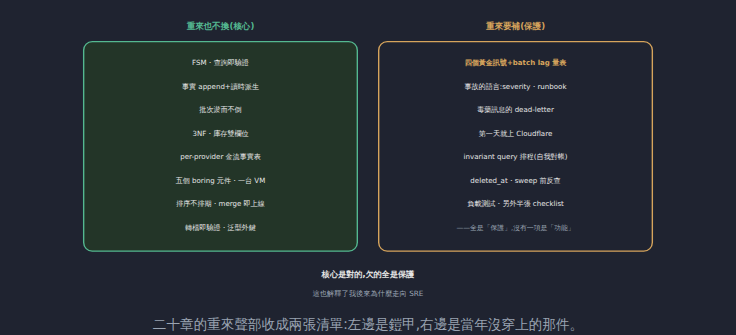
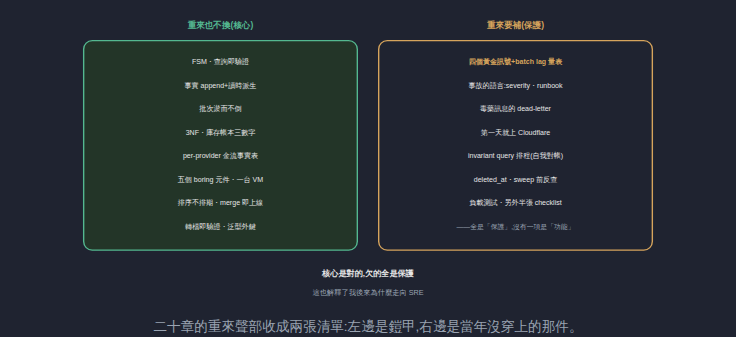
修正 #21 終章:兩張清單圖「庫存雙欄位」改為「庫存帳本三數字」
與 #16 同源的欄位數問題:#5 的定稿說法是帳本三個數字(上限、
購物車數量、訂單數量),終章核心清單圖仍寫「庫存雙欄位」。改為
「庫存帳本三數字」,aria 同步,day30-1.png 重產。

其餘核過:政治一筆帶過與原話、最後一個月四件事(1on1/陪跑/AI
工具清單/multica=需求的語言)、隕石翻案與 #17/#15 閉環、三個
體悟順序、監控之最與原話、Re: 三義、一年半與 interim SRE 時間
線,皆與 roadmap 一致。全站「結束檔期」mislink 已掃淨。

Claude-Session: https://claude.ai/code/session_01CvSnMJ1vCjbkh11Qu9m2ih

diff --git a/src/content/blog/rezero-retro.md b/src/content/blog/rezero-retro.md
@@ -59,13 +59,13 @@ CTO 去問,得到一句回答:「**知道能用跟不能用,就有差別。**」
 都不是。核心的架構,上一節說了,重來也不換。**我最想改的,是監控。**
 
 <figure style="margin:1.5rem 0;text-align:center;">
-  <svg viewBox="0 0 580 288" role="img" aria-label="兩張清單。左邊綠色,重來也不換的核心:FSM 與查詢即驗證、事實 append 加讀時派生、批次淤而不倒、3NF 與庫存雙欄位、per-provider 金流事實表、五個 boring 元件、排序不排期、轉檔即驗證。右邊琥珀色,重來要補的保護:四個黃金訊號加 batch lag、事故的語言 severity 與 runbook、dead-letter、第一天就上 Cloudflare、invariant query 排程、deleted_at 與 sweep 前反查、負載測試與另外半張 checklist。底部結論:核心是對的,欠的全是保護——這也解釋了我後來為什麼走向 SRE。" style="width:100%;max-width:620px;height:auto;margin:0 auto;">
+  <svg viewBox="0 0 580 288" role="img" aria-label="兩張清單。左邊綠色,重來也不換的核心:FSM 與查詢即驗證、事實 append 加讀時派生、批次淤而不倒、3NF 與庫存帳本三數字、per-provider 金流事實表、五個 boring 元件、排序不排期、轉檔即驗證。右邊琥珀色,重來要補的保護:四個黃金訊號加 batch lag、事故的語言 severity 與 runbook、dead-letter、第一天就上 Cloudflare、invariant query 排程、deleted_at 與 sweep 前反查、負載測試與另外半張 checklist。底部結論:核心是對的,欠的全是保護——這也解釋了我後來為什麼走向 SRE。" style="width:100%;max-width:620px;height:auto;margin:0 auto;">
     <text x="152" y="26" fill="#54b890" font-size="8" text-anchor="middle" font-weight="bold">重來也不換(核心)</text>
     <rect x="24" y="38" width="256" height="196" rx="8" fill="#233528" stroke="#54b890" stroke-width="1.3"/>
     <text x="152" y="60" fill="#e6e6e6" font-size="6.6" text-anchor="middle">FSM・查詢即驗證</text>
     <text x="152" y="82" fill="#e6e6e6" font-size="6.6" text-anchor="middle">事實 append+讀時派生</text>
     <text x="152" y="104" fill="#e6e6e6" font-size="6.6" text-anchor="middle">批次淤而不倒</text>
-    <text x="152" y="126" fill="#e6e6e6" font-size="6.6" text-anchor="middle">3NF・庫存雙欄位</text>
+    <text x="152" y="126" fill="#e6e6e6" font-size="6.6" text-anchor="middle">3NF・庫存帳本三數字</text>
     <text x="152" y="148" fill="#e6e6e6" font-size="6.6" text-anchor="middle">per-provider 金流事實表</text>
     <text x="152" y="170" fill="#e6e6e6" font-size="6.6" text-anchor="middle">五個 boring 元件・一台 VM</text>
     <text x="152" y="192" fill="#e6e6e6" font-size="6.6" text-anchor="middle">排序不排期・merge 即上線</text>
